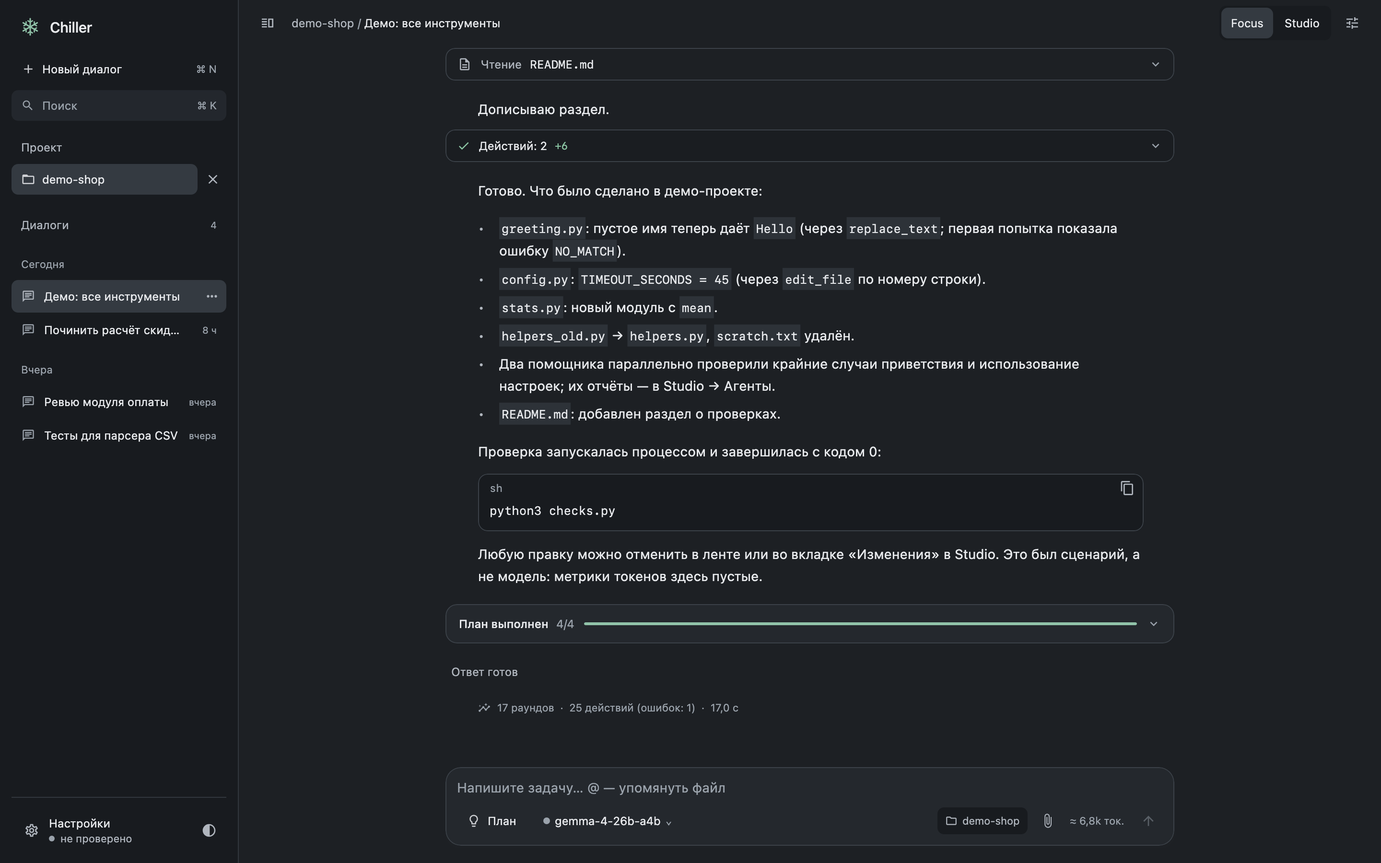
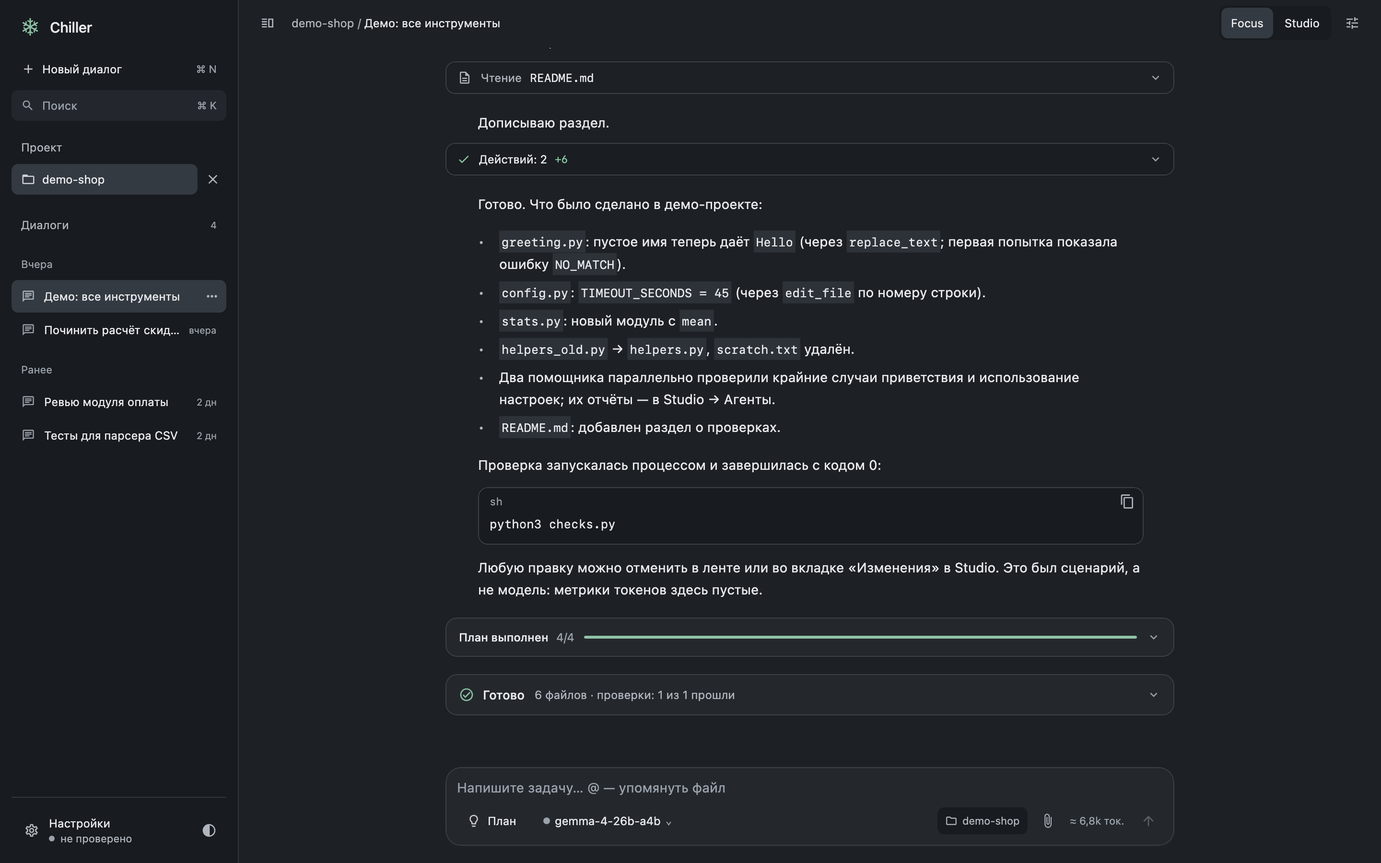
feat(ui): turn result card built from facts, not the model's words
A turn that did anything ends with one card: changed files with line
counts, commands with their last exit code, files shown to the user and
what is unresolved. Issues are a failed check-like command that never
passed afterwards, a check whose result was never read, an edit that
never applied, and an answer that claims a check when none ran (negated
sentences excluded). Collapsed to one line when clean, open with issues.
It replaces the separate outcome and summary lines; plain answers keep
them.

diff --git a/app-desktop/src/main/kotlin/dev/chiller/app/ui/TurnResultCard.kt b/app-desktop/src/main/kotlin/dev/chiller/app/ui/TurnResultCard.kt
@@ -1,0 +1,150 @@
+package dev.chiller.app.ui
+
+import androidx.compose.animation.AnimatedVisibility
+import androidx.compose.animation.core.tween
+import androidx.compose.animation.expandVertically
+import androidx.compose.animation.fadeIn
+import androidx.compose.animation.fadeOut
+import androidx.compose.animation.shrinkVertically
+import androidx.compose.foundation.background
+import androidx.compose.foundation.border
+import androidx.compose.foundation.clickable
+import androidx.compose.foundation.layout.*
+import androidx.compose.foundation.shape.CircleShape
+import androidx.compose.foundation.shape.RoundedCornerShape
+import androidx.compose.material.icons.Icons
+import androidx.compose.material.icons.outlined.*
+import androidx.compose.material3.Icon
+import androidx.compose.material3.Text
+import androidx.compose.runtime.*
+import androidx.compose.ui.Alignment
+import androidx.compose.ui.Modifier
+import androidx.compose.ui.draw.clip
+import androidx.compose.ui.graphics.vector.ImageVector
+import androidx.compose.ui.input.pointer.PointerIcon
+import androidx.compose.ui.input.pointer.pointerHoverIcon
+import androidx.compose.ui.semantics.Role
+import androidx.compose.ui.text.font.FontFamily
+import androidx.compose.ui.text.font.FontWeight
+import androidx.compose.ui.text.style.TextOverflow
+import androidx.compose.ui.unit.dp
+import androidx.compose.ui.unit.sp
+import dev.chiller.contracts.RunState
+import dev.chiller.design.LocalChillerPalette
+import dev.chiller.design.LocalChillerReducedMotion
+
+/**
+ * The end of a turn as facts: changed files, commands with their exit codes, files shown and what is still
+ * unresolved. It replaces the plain "answer ready" line when the turn did anything; with open issues it
+ * starts expanded, otherwise it is one summary line that opens on click.
+ */
+@Composable
+internal fun TurnResultCard(state: RunState, result: TurnResult, modifier: Modifier = Modifier, initiallyOpen: Boolean? = null) {
+    val c = LocalChillerPalette.current
+    val reduced = LocalChillerReducedMotion.current
+    val issues = result.issues.isNotEmpty()
+    var open by remember(issues) { mutableStateOf(initiallyOpen ?: issues) }
+    val (title, tint, icon) = when {
+        state.status == "failed" -> Triple("Ошибка", c.negative, Icons.Outlined.ErrorOutline)
+        state.status == "cancelled" -> Triple("Остановлено", c.muted, Icons.Outlined.StopCircle)
+        state.status == "interrupted" -> Triple("Прервано", c.muted, Icons.Outlined.StopCircle)
+        issues -> Triple("Готово, но есть что проверить", c.negative, Icons.Outlined.ReportProblem)
+        else -> Triple("Готово", c.positive, Icons.Outlined.CheckCircle)
+    }
+    val shape = RoundedCornerShape(12.dp)
+    Column(modifier.fillMaxWidth().clip(shape).background(c.surface).border(1.dp, if (issues) c.negative.copy(alpha = .35f) else c.border, shape)) {
+        Row(
+            Modifier.fillMaxWidth().pointerHoverIcon(PointerIcon.Hand).clickable(role = Role.Button) { open = !open }.padding(horizontal = 14.dp, vertical = 10.dp),
+            verticalAlignment = Alignment.CenterVertically,
+        ) {
+            Icon(icon, null, Modifier.size(16.dp), tint = tint)
+            Spacer(Modifier.width(9.dp))
+            Text(title, color = c.text, fontSize = 13.sp, fontWeight = FontWeight.Medium)
+            Spacer(Modifier.width(10.dp))
+            Text(summaryLine(result), color = c.muted, fontSize = 12.sp, maxLines = 1, overflow = TextOverflow.Ellipsis, modifier = Modifier.weight(1f))
+            Icon(if (open) Icons.Outlined.KeyboardArrowUp else Icons.Outlined.KeyboardArrowDown, if (open) "Свернуть итог" else "Развернуть итог", Modifier.size(15.dp), tint = c.faint)
+        }
+        AnimatedVisibility(open, enter = if (reduced) fadeIn(tween(0)) else expandVertically(tween(180)) + fadeIn(tween(140)), exit = if (reduced) fadeOut(tween(0)) else shrinkVertically(tween(150)) + fadeOut(tween(100))) {
+            Column(Modifier.padding(start = 14.dp, end = 14.dp, bottom = 12.dp), verticalArrangement = Arrangement.spacedBy(10.dp)) {
+                if (result.issues.isNotEmpty()) Section("Требует внимания") {
+                    result.issues.forEach { issue -> Line(Icons.Outlined.ReportProblem, c.negative) { Text(issue, color = c.text, fontSize = 12.sp, lineHeight = 17.sp) } }
+                }
+                if (result.files.isNotEmpty()) Section("Изменено") {
+                    result.files.take(6).forEach { file ->
+                        Line(fileIcon(file.kind), if (file.undone) c.faint else c.muted) {
+                            Text(file.path, color = if (file.undone) c.faint else c.text, fontSize = 12.sp, fontFamily = FontFamily.Monospace, maxLines = 1, overflow = TextOverflow.Ellipsis, modifier = Modifier.weight(1f, fill = false))
+                            Spacer(Modifier.width(8.dp))
+                            when {
+                                file.undone -> Text("откачено", color = c.faint, fontSize = 11.sp)
+                                file.kind == "deleted" -> Text("удалён", color = c.negative, fontSize = 11.sp)
+                                else -> {
+                                    if (file.kind == "created") { Text("новый", color = c.positive, fontSize = 11.sp); Spacer(Modifier.width(6.dp)) }
+                                    if (file.added > 0) Text("+${file.added}", color = c.positive, fontSize = 11.sp, fontFamily = FontFamily.Monospace)
+                                    if (file.removed > 0) { Spacer(Modifier.width(4.dp)); Text("−${file.removed}", color = c.negative, fontSize = 11.sp, fontFamily = FontFamily.Monospace) }
+                                }
+                            }
+                        }
+                    }
+                    if (result.files.size > 6) Text("и ещё ${result.files.size - 6}", color = c.faint, fontSize = 11.sp, modifier = Modifier.padding(start = 24.dp))
+                }
+                if (result.commands.isNotEmpty()) Section("Команды") {
+                    result.commands.forEach { run ->
+                        val (label, color) = when {
+                            run.succeeded -> "код 0" to c.positive
+                            run.state == "timed_out" -> "таймаут" to (if (run.isCheck) c.negative else c.muted)
+                            run.failed -> "код ${run.exitCode}" to (if (run.isCheck) c.negative else c.muted)
+                            run.state == "running" -> "результат не прочитан" to c.faint
+                            else -> run.state to c.faint
+                        }
+                        Line(Icons.Outlined.Terminal, c.muted) {
+                            Text(run.command, color = c.text, fontSize = 12.sp, fontFamily = FontFamily.Monospace, maxLines = 1, overflow = TextOverflow.Ellipsis, modifier = Modifier.weight(1f, fill = false))
+                            Spacer(Modifier.width(8.dp))
+                            Box(Modifier.size(6.dp).clip(CircleShape).background(color)); Spacer(Modifier.width(5.dp))
+                            Text(label, color = color, fontSize = 11.sp)
+                        }
+                    }
+                }
+                if (result.presented.isNotEmpty()) Section("Показано") {
+                    result.presented.forEach { path -> Line(Icons.Outlined.Image, c.muted) { Text(path, color = c.text, fontSize = 12.sp, fontFamily = FontFamily.Monospace, maxLines = 1, overflow = TextOverflow.Ellipsis) } }
+                }
+                val stats = runSummaryParts(state)
+                if (stats.isNotEmpty()) Text(stats.joinToString("  ·  "), color = c.faint, fontSize = 11.sp, lineHeight = 16.sp)
+            }
+        }
+    }
+}
+
+/** One line for the collapsed card: counts only, e.g. "2 файла · проверки: 1 из 1 · показан 1 файл". */
+internal fun summaryLine(result: TurnResult): String = buildList {
+    if (result.files.isNotEmpty()) add("${result.files.size} ${plural(result.files.size, "файл", "файла", "файлов")}")
+    val checks = result.commands.filter { it.isCheck }
+    if (checks.isNotEmpty()) add("проверки: ${checks.count { it.succeeded }} из ${checks.size} прошли")
+    else if (result.commands.isNotEmpty()) add("${result.commands.size} ${plural(result.commands.size, "команда", "команды", "команд")}")
+    if (result.presented.isNotEmpty()) add("показано ${result.presented.size}")
+    if (result.issues.isNotEmpty()) add("замечаний ${result.issues.size}")
+}.joinToString(" · ")
+
+@Composable
+private fun Section(title: String, content: @Composable ColumnScope.() -> Unit) {
+    val c = LocalChillerPalette.current
+    Column(verticalArrangement = Arrangement.spacedBy(5.dp)) {
+        Text(title, color = c.faint, fontSize = 11.sp, fontWeight = FontWeight.Medium)
+        content()
+    }
+}
+
+@Composable
+private fun Line(icon: ImageVector, tint: androidx.compose.ui.graphics.Color, content: @Composable RowScope.() -> Unit) {
+    Row(verticalAlignment = Alignment.CenterVertically) {
+        Icon(icon, null, Modifier.size(14.dp), tint = tint)
+        Spacer(Modifier.width(10.dp))
+        content()
+    }
+}
+
+private fun fileIcon(kind: String): ImageVector = when (kind) {
+    "created" -> Icons.Outlined.NoteAdd
+    "deleted" -> Icons.Outlined.Delete
+    "moved" -> Icons.Outlined.DriveFileMove
+    else -> Icons.Outlined.Edit
+}

diff --git a/app-desktop/src/main/kotlin/dev/chiller/app/ui/TurnResult.kt b/app-desktop/src/main/kotlin/dev/chiller/app/ui/TurnResult.kt
@@ -1,0 +1,112 @@
+package dev.chiller.app.ui
+
+import dev.chiller.contracts.RunState
+import kotlinx.serialization.json.Json
+import kotlinx.serialization.json.JsonObject
+import kotlinx.serialization.json.contentOrNull
+import kotlinx.serialization.json.intOrNull
+import kotlinx.serialization.json.jsonArray
+import kotlinx.serialization.json.jsonObject
+import kotlinx.serialization.json.jsonPrimitive
+
+/** A file the agent changed in this turn, merged over all its changes. */
+data class ChangedFile(val path: String, val kind: String, val added: Int, val removed: Int, val undone: Boolean = false)
+
+/** A command the agent ran in this turn, with its last observed outcome. */
+data class CommandRun(val command: String, val state: String, val exitCode: Int?, val isCheck: Boolean) {
+    val succeeded: Boolean get() = state == "exited" && exitCode == 0
+    val failed: Boolean get() = (state == "exited" && exitCode != null && exitCode != 0) || state == "timed_out"
+}
+
+/**
+ * What a turn actually did, built only from tool calls and their results, never from the model's own text:
+ * changed files, commands with exit codes, files shown to the user and what is left unresolved.
+ */
+data class TurnResult(
+    val files: List<ChangedFile>,
+    val commands: List<CommandRun>,
+    val presented: List<String>,
+    val issues: List<String>,
+) {
+    val isEmpty: Boolean get() = files.isEmpty() && commands.isEmpty() && presented.isEmpty() && issues.isEmpty()
+}
+
+private val FILE_CHANGE_TOOLS = setOf("edit_file", "replace_text", "create_file", "move_file", "delete_file", "create_directory")
+
+/** Commands whose failure means the work is not done (unlike grep or ls, where a non-zero exit is normal). */
+internal fun isCheckCommand(argv: List<String>): Boolean {
+    val text = argv.joinToString(" ").lowercase()
+    val words = listOf("test", "pytest", "check", "lint", "gradlew", "gradle", "mvn", "cargo", "go vet", "tsc", "mypy", "ruff",
+        "flake8", "eslint", "ktlint", "detekt", "build", "verify", "compile", "unittest", "jest", "vitest", "make")
+    return words.any { it in text }
+}
+
+/** Claims of verification in the final answer; a sentence with a negation ("не запускал тесты") is not a claim. */
+private val CLAIM = Regex("""(тест\p{L}*|провер\p{L}*|прош(ли|ла|ёл|ел)|pass(ed|es)?|tests?|verified|checks?)""", RegexOption.IGNORE_CASE)
+private val NEGATION = Regex("""(^|[\s(«"])(не|нет|без|not|no|without|cannot|can't|didn't|did not|unable)([\s,.)»"]|$)""", RegexOption.IGNORE_CASE)
+
+internal fun claimsVerification(answer: String): Boolean =
+    answer.split(Regex("""(?<=[.!?\n])\s+""")).any { sentence -> CLAIM.containsMatchIn(sentence) && !NEGATION.containsMatchIn(sentence) }
+
+fun turnResult(state: RunState, undone: Set<String> = emptySet()): TurnResult {
+    val start = state.messages.indexOfLast { it.role == "user" }
+    val turn = if (start < 0) state.messages else state.messages.drop(start + 1)
+    val calls = turn.flatMap { it.toolCalls }
+    val callIds = calls.map { it.id }.toSet()
+    val results = turn.filter { it.role == "tool" }.associateBy { it.toolCallId }
+    val activities = state.activities.filter { it.toolCallId in callIds }
+
+    // Files: completed changes merged per path, in first-change order.
+    val files = linkedMapOf<String, ChangedFile>()
+    for (activity in activities) {
+        if (activity.name !in FILE_CHANGE_TOOLS || activity.status != "completed" || activity.name == "create_directory") continue
+        val (added, removed) = activity.diff?.let(::diffStats) ?: (0 to 0)
+        val kind = when (activity.name) { "create_file" -> "created"; "delete_file" -> "deleted"; "move_file" -> "moved"; else -> "edited" }
+        val isUndone = changeId(activity.output)?.let { it in undone } == true
+        val previous = files[activity.target]
+        files[activity.target] = if (previous == null) ChangedFile(activity.target, kind, added, removed, isUndone)
+            else previous.copy(added = previous.added + added, removed = previous.removed + removed, undone = previous.undone && isUndone,
+                kind = if (previous.kind == "created" && kind == "deleted") "deleted" else previous.kind)
+    }
+
+    // Commands: run_process gives the argv and the process id; later reads update the outcome.
+    val commandsById = linkedMapOf<String, CommandRun>()
+    for (call in calls) {
+        val data = results[call.id]?.content?.let { runCatching { Json.parseToJsonElement(it).jsonObject["data"] as? JsonObject }.getOrNull() } ?: continue
+        val id = data["processId"]?.jsonPrimitive?.contentOrNull ?: continue
+        val outcome = data["state"]?.jsonPrimitive?.contentOrNull ?: "running"
+        val exit = data["exitCode"]?.jsonPrimitive?.intOrNull
+        when (call.name) {
+            "run_process" -> {
+                val argv = runCatching { Json.parseToJsonElement(call.arguments).jsonObject["argv"]!!.jsonArray.map { it.jsonPrimitive.content } }.getOrDefault(emptyList())
+                commandsById[id] = CommandRun(argv.joinToString(" ").take(160), outcome, exit, isCheckCommand(argv))
+            }
+            "read_process", "stop_process" -> commandsById[id]?.let { commandsById[id] = it.copy(state = outcome, exitCode = exit ?: it.exitCode) }
+        }
+    }
+    val commands = commandsById.values.toList()
+
+    val presented = activities.filter { it.name in setOf("show_file", "capture_window") && it.status == "completed" }
+        .map { presentedFileFromOutput(it.output)?.path ?: it.target }.filter { it.isNotBlank() }.distinct()
+
+    val issues = buildList {
+        // A failed check counts unless the same command later succeeded.
+        commands.withIndex().filter { (index, run) -> run.isCheck && run.failed && commands.drop(index + 1).none { it.command == run.command && it.succeeded } }
+            .map { it.value }.distinctBy { it.command }.forEach { run ->
+                add(if (run.state == "timed_out") "«${run.command}» не уложилась во время и не перезапускалась успешно"
+                    else "«${run.command}» завершилась с кодом ${run.exitCode} и после этого не прошла")
+            }
+        commands.filter { it.isCheck && it.state == "running" && commands.none { other -> other.command == it.command && (other.succeeded || other.failed) } }
+            .distinctBy { it.command }.forEach { add("Результат «${it.command}» не прочитан: неизвестно, прошла ли проверка") }
+        // A failed change counts unless the same path was changed successfully later.
+        activities.withIndex().filter { (index, a) ->
+            a.name in FILE_CHANGE_TOOLS && a.status == "failed" &&
+                activities.drop(index + 1).none { it.name in FILE_CHANGE_TOOLS && it.status == "completed" && it.target == a.target }
+        }.map { it.value.target }.distinct().forEach { add("Правка «$it» не применилась") }
+        val answer = turn.lastOrNull { it.role == "assistant" && !it.content.isNullOrBlank() }?.content.orEmpty()
+        if (state.status == "completed" && commands.none { it.isCheck } && claimsVerification(answer))
+            add("В ответе говорится о проверке, но в этом ходе команды проверки не запускались")
+    }
+    return TurnResult(files.values.toList(), commands, presented, issues)
+}
+

diff --git a/app-desktop/src/test/kotlin/dev/chiller/app/ui/TurnResultTest.kt b/app-desktop/src/test/kotlin/dev/chiller/app/ui/TurnResultTest.kt
@@ -1,0 +1,67 @@
+package dev.chiller.app.ui
+
+import dev.chiller.contracts.Activity
+import dev.chiller.contracts.AgentMessage
+import dev.chiller.contracts.RunState
+import dev.chiller.contracts.ToolCall
+import kotlin.test.Test
+import kotlin.test.assertEquals
+import kotlin.test.assertFalse
+import kotlin.test.assertTrue
+
+class TurnResultTest {
+    private fun call(id: String, name: String, args: String) = AgentMessage("assistant", toolCalls = listOf(ToolCall(id, name, args)))
+    private fun result(id: String, data: String) = AgentMessage("tool", """{"ok":true,"data":$data}""", toolCallId = id)
+    private fun run(id: String, argv: String, state: String, exit: Int?) = listOf(
+        call(id, "run_process", """{"argv":$argv}"""),
+        result(id, """{"processId":"p$id","output":"","cursor":0,"state":"$state"${exit?.let { ",\"exitCode\":$it" } ?: ""}}"""),
+    )
+    private fun edit(id: String, path: String, ok: Boolean, diff: String? = null) = Activity(name = "replace_text", target = path,
+        status = if (ok) "completed" else "failed", output = if (ok) """{"ok":true,"data":{"id":"c$id"}}""" else "{}", diff = diff, toolCallId = id)
+
+    @Test fun `files, commands and shown results come from tool calls`() {
+        val messages = listOf(AgentMessage("user", "fix it")) +
+            call("e1", "replace_text", "{}") + call("e2", "replace_text", "{}") + run("r1", """["python3","-m","pytest"]""", "exited", 0) +
+            AgentMessage("assistant", "Готово: тесты прошли.")
+        val activities = listOf(
+            edit("e1", "app.py", true, "--- a\n+++ b\n-old\n+new\n+more\n"),
+            edit("e2", "app.py", true, "--- a\n+++ b\n+x\n"),
+            Activity(name = "show_file", target = "plot.png", status = "completed", toolCallId = "e2"),
+        )
+        val r = turnResult(RunState(status = "completed", messages = messages, activities = activities), undone = setOf("ce1"))
+        assertEquals(listOf(ChangedFile("app.py", "edited", 3, 1, undone = false)), r.files)
+        assertEquals(listOf(CommandRun("python3 -m pytest", "exited", 0, isCheck = true)), r.commands)
+        assertEquals(listOf("plot.png"), r.presented)
+        assertTrue(r.issues.isEmpty(), r.issues.toString())
+    }
+
+    @Test fun `a failed check is an issue unless it later passes, a failing grep is not`() {
+        val failedThenFixed = listOf(AgentMessage("user", "go")) + run("r1", """["pytest"]""", "exited", 1) + run("r2", """["pytest"]""", "exited", 0) +
+            run("r3", """["grep","-r","TODO","."]""", "exited", 1) + AgentMessage("assistant", "ok")
+        assertTrue(turnResult(RunState(status = "completed", messages = failedThenFixed)).issues.isEmpty())
+        val stillFailing = listOf(AgentMessage("user", "go")) + run("r1", """["./gradlew","check"]""", "exited", 0) + run("r2", """["./gradlew","check"]""", "exited", 1)
+        assertEquals(listOf("«./gradlew check» завершилась с кодом 1 и после этого не прошла"), turnResult(RunState(status = "completed", messages = stillFailing)).issues)
+    }
+
+    @Test fun `unread background checks and unapplied edits are issues`() {
+        val messages = listOf(AgentMessage("user", "go")) + run("r1", """["npm","test"]""", "running", null) + call("e1", "replace_text", "{}") + call("e2", "replace_text", "{}") + call("e3", "replace_text", "{}")
+        val activities = listOf(edit("e1", "a.py", false), edit("e2", "a.py", true), edit("e3", "b.py", false))
+        val issues = turnResult(RunState(status = "completed", messages = messages, activities = activities)).issues
+        assertEquals(listOf("Результат «npm test» не прочитан: неизвестно, прошла ли проверка", "Правка «b.py» не применилась"), issues)
+    }
+
+    @Test fun `a claimed check without any check command is flagged, a stated non-check is not`() {
+        fun issues(answer: String) = turnResult(RunState(status = "completed", messages = listOf(AgentMessage("user", "go"), AgentMessage("assistant", answer)))).issues
+        assertEquals(1, issues("Исправил функцию, все тесты проходят.").size)
+        assertEquals(1, issues("Fixed. All tests passed.").size)
+        assertTrue(issues("Исправил функцию. Тесты не запускал: команды отключены.").isEmpty())
+        assertTrue(issues("Renamed the variable.").isEmpty())
+        assertTrue(claimsVerification("Проверил: всё работает.") && !claimsVerification("Без запуска проверок."))
+    }
+
+    @Test fun `only the latest turn counts and a plain answer is empty`() {
+        val messages = run("old", """["pytest"]""", "exited", 1) + listOf(AgentMessage("user", "what is this?"), AgentMessage("assistant", "A parser."))
+        assertTrue(turnResult(RunState(status = "completed", messages = messages)).isEmpty)
+        assertTrue(isCheckCommand(listOf("python3", "checks.py")) && !isCheckCommand(listOf("ls", "-la")))
+    }
+}

diff --git a/app-desktop/src/test/kotlin/dev/chiller/app/ui/TurnResultPreview.kt b/app-desktop/src/test/kotlin/dev/chiller/app/ui/TurnResultPreview.kt
@@ -1,0 +1,43 @@
+package dev.chiller.app.ui
+
+import androidx.compose.foundation.background
+import androidx.compose.foundation.layout.*
+import androidx.compose.ui.ImageComposeScene
+import androidx.compose.ui.Modifier
+import androidx.compose.ui.unit.Density
+import androidx.compose.ui.unit.dp
+import dev.chiller.contracts.RunState
+import dev.chiller.contracts.TokenUsage
+import dev.chiller.design.ChillerTheme
+import dev.chiller.design.LocalChillerPalette
+import java.nio.file.Files
+import java.nio.file.Path
+import javax.swing.SwingUtilities
+
+/** Renders the turn result card (clean and with issues, light and dark) into build/reports/turn-result. Synthetic data. */
+fun main() {
+    val state = RunState(status = "completed", modelRounds = 9, toolCalls = 14, failedToolCalls = 1, runDurationMs = 21_400, usage = TokenUsage(48_200, 1_900, 39_000))
+    val clean = TurnResult(
+        files = listOf(ChangedFile("src/cart.py", "edited", 12, 3), ChangedFile("tests/test_cart.py", "created", 24, 0), ChangedFile("docs/old.md", "deleted", 0, 8)),
+        commands = listOf(CommandRun("python3 -m pytest -q", "exited", 0, true), CommandRun("grep -rn discount src", "exited", 1, false)),
+        presented = listOf("reports/coverage.png"), issues = emptyList())
+    val issues = clean.copy(
+        commands = listOf(CommandRun("python3 -m pytest -q", "exited", 1, true), CommandRun("npm run lint", "running", null, true)),
+        issues = listOf("«python3 -m pytest -q» завершилась с кодом 1 и после этого не прошла", "Результат «npm run lint» не прочитан: неизвестно, прошла ли проверка", "Правка «src/api.py» не применилась"))
+    val output = Path.of("build/reports/turn-result"); Files.createDirectories(output)
+    for (dark in listOf(false, true)) for ((name, result) in listOf("clean" to clean, "issues" to issues)) {
+        lateinit var scene: ImageComposeScene
+        SwingUtilities.invokeAndWait {
+            scene = ImageComposeScene(1520, 1040, Density(2f)) {
+                ChillerTheme(darkTheme = dark, reducedMotion = true) {
+                    Box(Modifier.fillMaxSize().background(LocalChillerPalette.current.canvas).padding(20.dp)) { TurnResultCard(state, result.copy(), Modifier, initiallyOpen = true) }
+                }
+            }
+        }
+        try {
+            repeat(6) { SwingUtilities.invokeAndWait { scene.render(it * 100_000_000L).close() } }
+            SwingUtilities.invokeAndWait { scene.render(1_000_000_000L).use { img -> img.encodeToData()!!.use { Files.write(output.resolve("${if (dark) "dark" else "light"}-$name.png"), it.bytes) } } }
+        } finally { SwingUtilities.invokeAndWait { scene.close() } }
+    }
+    println("Turn result cards rendered to $output")
+}

diff --git a/app-desktop/src/main/kotlin/dev/chiller/app/ui/ChillerApp.kt b/app-desktop/src/main/kotlin/dev/chiller/app/ui/ChillerApp.kt
@@ -1119,10 +1119,16 @@ private fun Conversation(state: RunState, reduced: Boolean, onAnswer: (String) -
                     if (state.question == null) ShimmerText(label, reduced) else Text(label, color = c.accent, fontSize = 12.sp)
                 }
             }
-            if (state.status in setOf("completed", "cancelled", "interrupted")) item(key = "run-outcome") {
-                Text(runProgressLabel(state).orEmpty(), color = c.muted, fontSize = 12.sp, modifier = entryModifier("run-outcome").padding(start = 6.dp))
+            // A turn that did something ends with a card of facts; a plain answer keeps the short status line.
+            val finished = state.status in setOf("completed", "failed", "cancelled", "interrupted")
+            val result = if (finished) turnResult(state, undoneChanges) else null
+            if (result != null && !result.isEmpty) item(key = "turn-result") { TurnResultCard(state, result, entryModifier("turn-result")) }
+            else {
+                if (state.status in setOf("completed", "cancelled", "interrupted")) item(key = "run-outcome") {
+                    Text(runProgressLabel(state).orEmpty(), color = c.muted, fontSize = 12.sp, modifier = entryModifier("run-outcome").padding(start = 6.dp))
+                }
+                if (state.status in setOf("completed", "failed", "cancelled") && state.modelRounds > 0) item(key = "run-summary") { Box(entryModifier("run-summary")) { RunSummaryLine(state) } }
             }
-            if (state.status in setOf("completed", "failed", "cancelled") && state.modelRounds > 0) item(key = "run-summary") { Box(entryModifier("run-summary")) { RunSummaryLine(state) } }
             state.question?.let { q -> item(key = "question-${q.id}") { Box(entryModifier("question-${q.id}")) { Question(q, onAnswer, state.status != "interrupted") } } }
             state.error?.let { error -> item(key = "error") { Column(entryModifier("error")) { Row(Modifier.fillMaxWidth().padding(8.dp), horizontalArrangement = Arrangement.spacedBy(9.dp)) {
                 Icon(Icons.Outlined.ErrorOutline, null, Modifier.size(16.dp), tint = c.negative)
